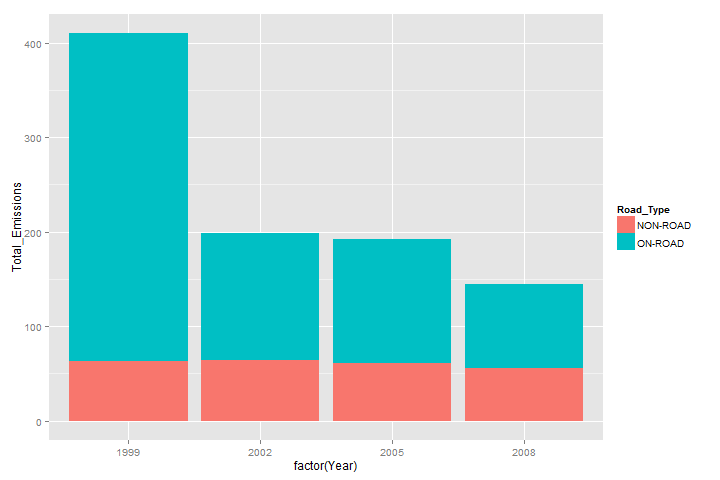
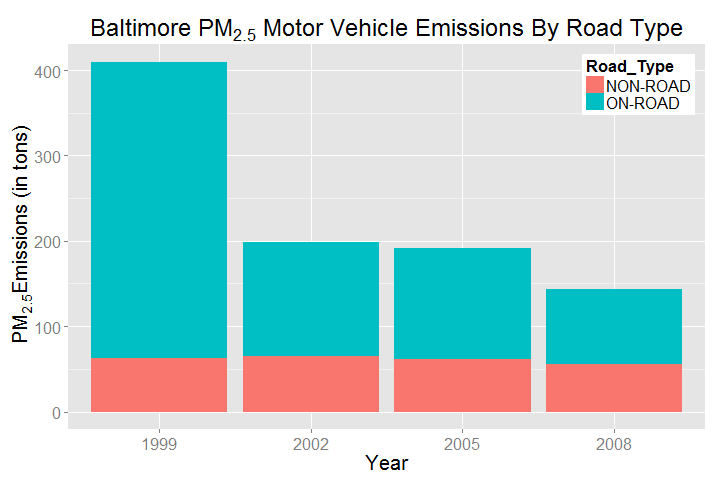
finish plot 5 code, rendered plot and updated README

diff --git a/README.md b/README.md
@@ -64,7 +64,8 @@ The following descriptions of the 6 variables in the dataset are as follows:
 <li>How have emissions from motor vehicle sources changed from 1999 - 2008 in Baltimore City?
 <ul>
     <li>The criteria used for determine which records are considered "motor vehicle sources" is any record with an <b>EI.Sector</b> field value that contains the string "mobile" followed by the string "road" ignoring case.</li>
-    <li>stuff</li>
+    <li>Using the <b>ggplot2</b> system, a stacked bar chart showing PM2.5 emissions for both NON-ROAD and ON-ROAD types for each of the years 1999, 2002, 2005, and 2008 was constructed as shown in <b><a href="#id-plot5">Plot 5</a></b> below.</li>
+    <li>The chart shows that the overall vehicle emissions has fallen in each of the periods between 1999 and 2008 and that most of this decline has been driven by the fall in ON-ROAD emissions</li>
   </ul>
 </li>
 <li>Compare emissions from motor vehicle sources in Baltimore City with emissions from motor vehicle sources in Los Angeles County, California (fips == "06037"). Which city has seen greater changes over time in motor vehicle emissions?
